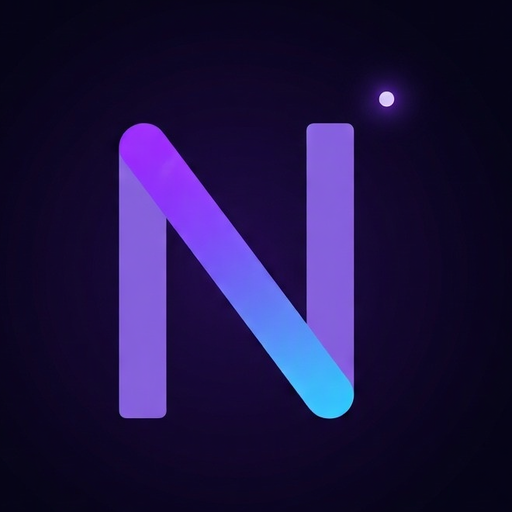
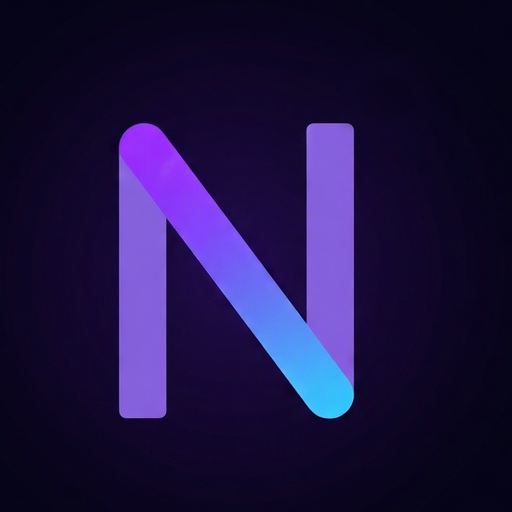
Remove the dot above the N from the studio mark

Changed region(s): [[0.6875, 0.125, 0.8125, 0.25]]

diff --git a/brand/README.md b/brand/README.md
@@ -1,6 +1,6 @@
 # NecturaLabs brand
 
 - `necturalabs-mark-512.png`: the studio mark, used as the GitHub organization avatar.
-- `necturalabs-mark-source-1024.png`: the uncropped source, generated with Microsoft Foundry MAI-Image-2.6 from the prompt beside it.
+- `necturalabs-mark-source-1024.png`: the raw generation, made with Microsoft Foundry MAI-Image-2.6 from the prompt beside it. The final mark removes the small dot the prompt asked for above the N (filled with clean background from the mirrored side) and crops to the letter.
 
 Canopy has its own icon in the Canopy repository; the studio mark is not used for any single product.
